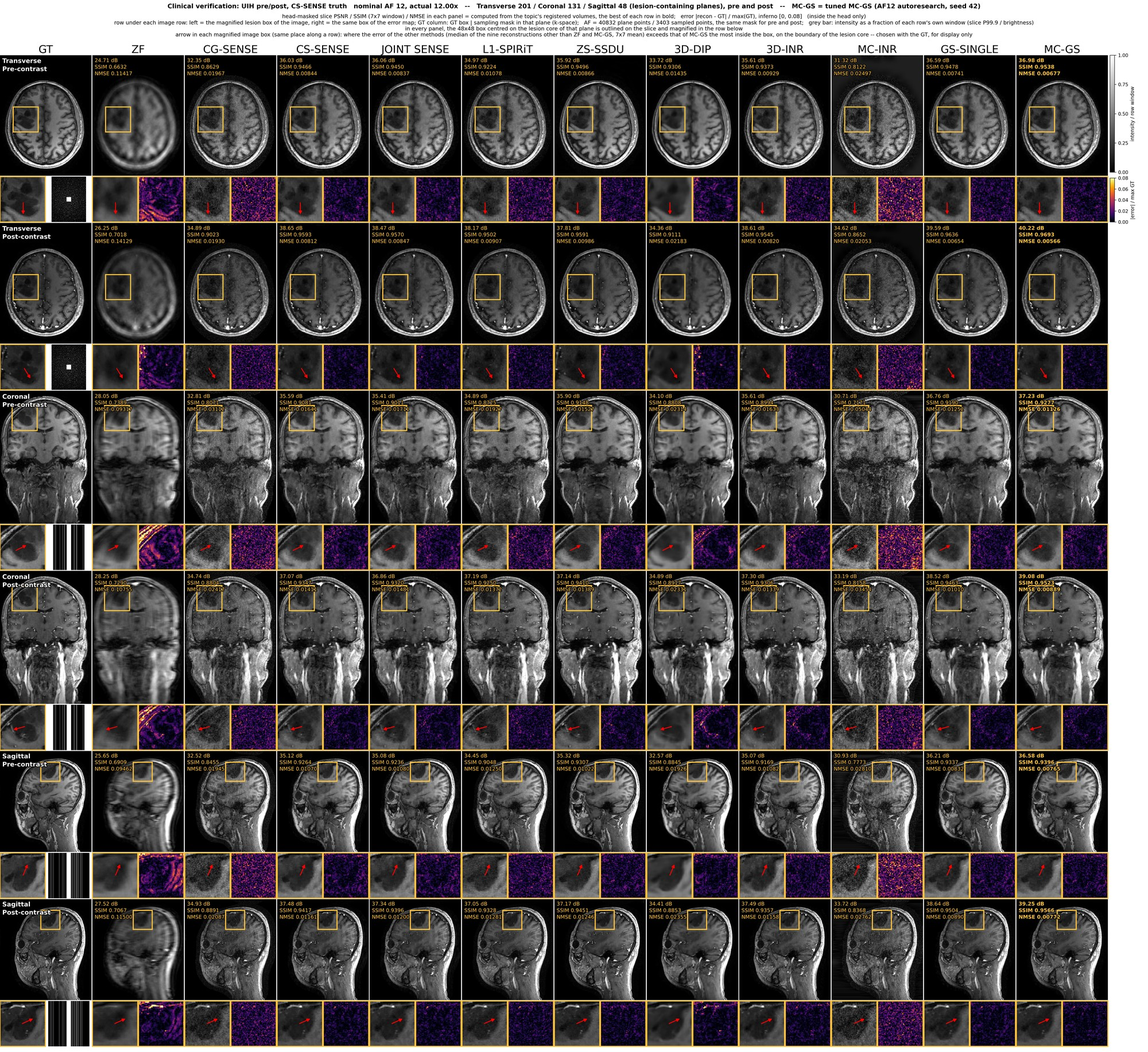
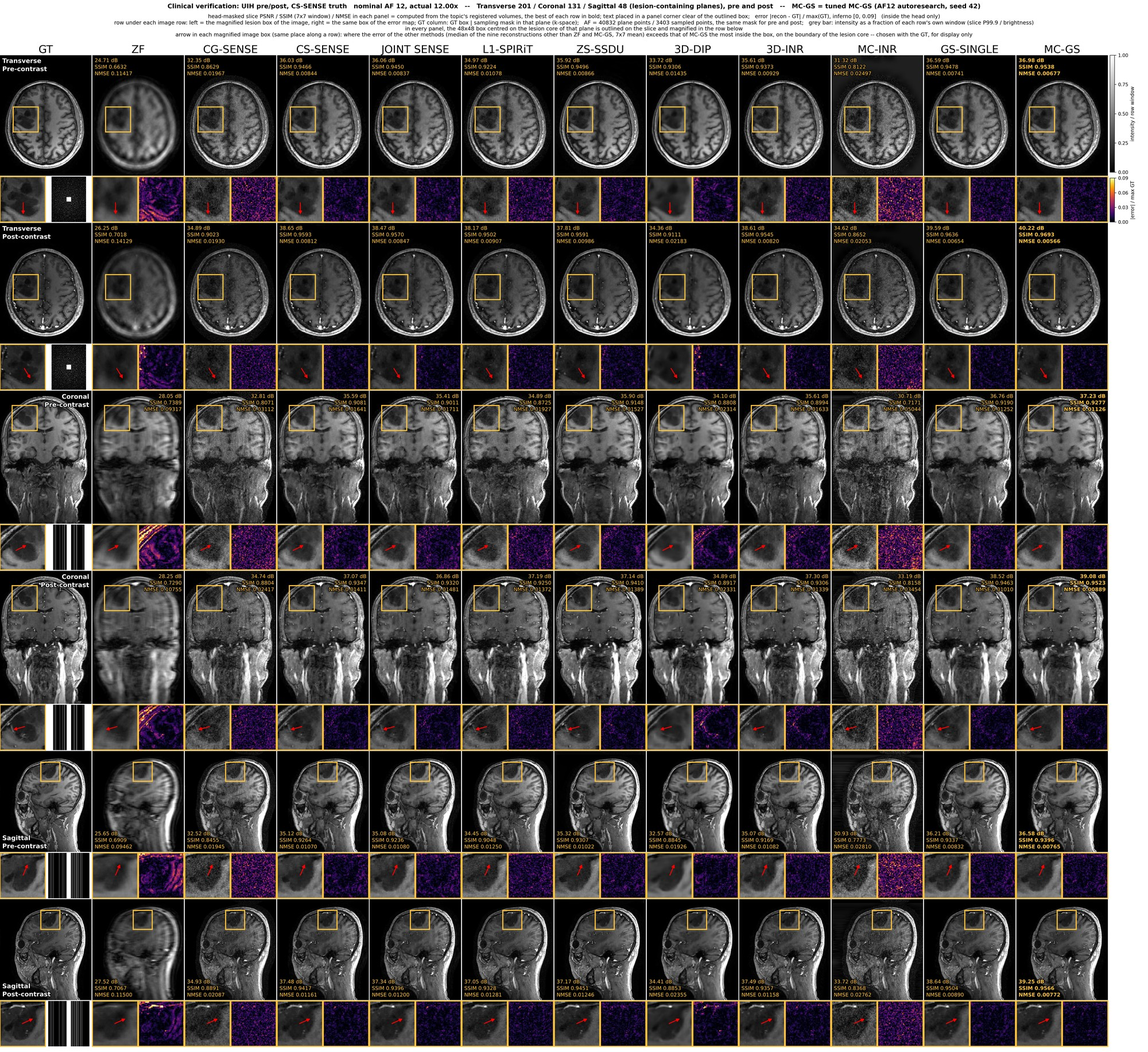
[plain-enhan] ce af12 optimal figure: error range [0, 0.09], panel text clear of the zoom box (user)
User 2026-11-24: "Adjust the colorbar range to [0, 0.09]. Then, ensure that the text on the figure does not overlap
the zoom-in box."
- fig_lesion_plane_prepost.py: --text_corner auto puts each row's GT label and PSNR / SSIM / NMSE block in the first
  corner (tl, tr, bl, br) whose rendered text clears the outlined box by 3 pt (default tl = as before); error colour-bar
  ticks: four equal steps when the step is a multiple of 0.005 (0.1 and 0.08 unchanged), else 3 / 5 / 6 steps
  (0.09 -> 0 / 0.03 / 0.06 / 0.09)
- optimal figure redrawn (CPU j-20261125T015708-a0616399): transverse rows top-left, coronal top-right, sagittal
  bottom-left; numbers, margins, arrow points and source volumes identical to the [0, 0.08] drawing
- README current-optimal block, record JSON and preview updated; server v2_err009_textclear, sha256 checked

From the Claude session "plain-enhan" only.

diff --git a/autoresearch/ce_af16_lesion_figs_20261107/fig_lesion_plane_prepost.py b/autoresearch/ce_af16_lesion_figs_20261107/fig_lesion_plane_prepost.py
@@ -55,6 +55,9 @@ ap.add_argument("--inset", type=int, default=48)
 ap.add_argument("--inset_corner", default="auto", choices=["auto", "bl", "br", "tr"],
                 help="corner of the magnified box (auto = the free corner farthest from the outlined box; tl holds the numbers)")
 ap.add_argument("--err_vmax", type=float, default=0.1)
+ap.add_argument("--text_corner", default="tl", choices=["tl", "auto"],
+                help="corner of the panel text (row labels, PSNR / SSIM / NMSE): tl = top-left as before; auto = per row the "
+                     "first of top-left, top-right, bottom-left, bottom-right whose rendered text clears the outlined box")
 ap.add_argument("--err_cmap", default="jet", help="colour map of the error maps (jet = the record format; inferno = the article look)")
 ap.add_argument("--arrow", action="store_true",
                 help="article look (as fig_t1flair_af_record_format.py --arrow --arrow_on main): one arrow per row on every "
@@ -339,6 +342,16 @@ def plane_rows(axis, idx):
     return out
 
 
+def err_ticks(vmax):
+    """colour-bar ticks of the error map: four equal steps as before when the step is a multiple of 0.005
+    (0.1 -> 0.025, 0.08 -> 0.02), otherwise the first of 3 / 5 / 6 steps that is (0.09 -> 0.03)"""
+    for n in (4, 3, 5, 6):
+        st = vmax / n
+        if abs(st / 0.005 - round(st / 0.005)) < 1e-6:
+            return np.arange(n + 1) * st
+    return np.arange(0, 5) * vmax / 4
+
+
 def set_windows(rows):
     """house grey windows: each row its slice P99.9; a sagittal row gets the in-head median / P99.9 ratio of the
     other planes of the same scan (bright lateral scalp fat would darken it); then / --brightness (display only)"""
@@ -357,7 +370,7 @@ def render(rows, title, stem):
         stem += "_zoomerr"
     stem += (f"_{args.err_cmap}" if args.err_cmap != "jet" else "") + (f"_err{args.err_vmax:g}" if args.err_vmax != 0.1 else "") \
         + (f"_arrow{args.arrow_mode}" if args.arrow else "") + ("_onerr" if args.arrow and args.arrow_on == "main+err" else "") \
-        + ("_onzoom" if args.arrow and args.arrow_on == "zoom" else "")
+        + ("_onzoom" if args.arrow and args.arrow_on == "zoom" else "") + ("_txtauto" if args.text_corner == "auto" else "")
     ncol = len(LABELS) + 1
     pw, gap = 2.6, 0.025
     CBTRIM, top_in, cbpad, cbw, cbroom = 0.10, 1.35, 0.06, 0.13, (0.95 if args.cbar == "single" else 0.60)
@@ -388,11 +401,45 @@ def render(rows, title, stem):
             sp.set_visible(False)
         return a
 
-    def label(a, text, bold=False, line=0, fs=12, hh=None, color="white"):
-        dy = line * fs * 1.28 / 72 / hh if line else 0.0
-        t = a.text(0.025, 0.975 - dy, text, transform=a.transAxes, ha="left", va="top", color=color, fontsize=fs,
+    def label(a, text, bold=False, line=0, fs=12, hh=None, color="white", corner="tl", nlines=1):
+        """one text line in a panel corner; line 0 is the top line of the block in every corner"""
+        k_ = line if corner[0] == "t" else nlines - 1 - line
+        dy = k_ * fs * 1.28 / 72 / hh if k_ else 0.0
+        t = a.text(0.025 if corner[1] == "l" else 0.975, 0.975 - dy if corner[0] == "t" else 0.025 + dy, text,
+                   transform=a.transAxes, ha="left" if corner[1] == "l" else "right",
+                   va="top" if corner[0] == "t" else "bottom", color=color, fontsize=fs,
                    fontweight="bold" if bold else "normal")
         t.set_path_effects([pe.withStroke(linewidth=2.5, foreground="black")])
+        return t
+
+    def text_corner(a, r, h):
+        """--text_corner auto: the first corner (tl, tr, bl, br) where the rendered row label of the GT panel and the
+        widest PSNR / SSIM / NMSE block of the row (drawn bold) clear the outlined box by 3 pt; if none does, the corner
+        with the least overlap. All panels of a row have the size of this one, so the corner holds along the row."""
+        if args.text_corner == "tl":
+            return "tl"
+        rend = fig.canvas.get_renderer()
+        z = r["zoom"]
+        bb = a.transData.transform(np.array([[z["x0"] - 0.5, z["y0"] - 0.5],
+                                             [z["x0"] + z["w"] - 0.5, z["y0"] + z["w"] - 0.5]]))
+        pad = 3 * fig.dpi / 72
+        bx0, by0 = bb.min(0) - pad
+        bx1, by1 = bb.max(0) + pad
+        nums = [(f"{n['psnr']:.2f} dB", f"SSIM {n['ssim']:.4f}", f"NMSE {n['nmse']:.5f}") for n in r["num"].values()]
+        blocks = [((ANAT[r["axis"]], SCAN_NAME[r["scan"]]), 13), (max(nums, key=lambda t: max(map(len, t))), 10.5)]
+        cost = {}
+        for c in ("tl", "tr", "bl", "br"):
+            ov = 0.0
+            for lines, fs in blocks:
+                for i, txt in enumerate(lines):
+                    t = label(a, txt, bold=True, line=i, fs=fs, hh=h, corner=c, nlines=len(lines))
+                    e = t.get_window_extent(renderer=rend)
+                    t.remove()
+                    ov += max(0.0, min(e.x1, bx1) - max(e.x0, bx0)) * max(0.0, min(e.y1, by1) - max(e.y0, by0))
+            if ov == 0.0:
+                return c
+            cost[c] = ov
+        return min(cost, key=cost.get)
 
     def put_inset(parent, img, r, x0_in, y0_in, hh, **imkw):
         z, corner = r["zoom"], r["corner"]
@@ -446,8 +493,9 @@ def render(rows, title, stem):
                 gim = a.imshow(D(r["g2"], axis), cmap="gray", vmin=0, vmax=r["vmax"], origin="lower", aspect="auto")
                 put_inset(a, D(r["g2"], axis), r, x, y, h, cmap="gray", vmin=0, vmax=r["vmax"])
                 arrow_at(a, r, D(r["g2"], axis).shape)
-                label(a, ANAT[axis], bold=True, fs=13)          # plane name only, as the house figures; indices in the title
-                label(a, SCAN_NAME[s], bold=True, line=1, fs=13, hh=h)
+                tc = r["text_corner"] = text_corner(a, r, h)
+                label(a, ANAT[axis], bold=True, fs=13, hh=h, corner=tc, nlines=2)   # plane name only; indices in the title
+                label(a, SCAN_NAME[s], bold=True, line=1, fs=13, hh=h, corner=tc, nlines=2)
                 kplane = D(mask3.take(kcen[axis], axis=axis), axis)
                 if ZOOMROW:
                     bL.imshow(crop(D(r["g2"], axis), z), cmap="gray", vmin=0, vmax=r["vmax"], origin="lower", aspect="auto")
@@ -468,7 +516,7 @@ def render(rows, title, stem):
             n = r["num"][lab]
             for i, (txt, met) in enumerate(((f"{n['psnr']:.2f} dB", "psnr"), (f"SSIM {n['ssim']:.4f}", "ssim"),
                                              (f"NMSE {n['nmse']:.5f}", "nmse"))):
-                label(a, txt, bold=lab == r["best"][met], line=i, fs=10.5, hh=h, color=METRIC_COLOR)
+                label(a, txt, bold=lab == r["best"][met], line=i, fs=10.5, hh=h, color=METRIC_COLOR, corner=tc, nlines=3)
             emap = D(np.abs(v - r["g2"]) / gmax[s] * r["emask"], axis)
             if ZOOMROW:
                 bL.imshow(crop(D(v, axis), z), cmap="gray", vmin=0, vmax=r["vmax"], origin="lower", aspect="auto")
@@ -487,14 +535,14 @@ def render(rows, title, stem):
             if k == 0:     # one grey bar in units of each row's own window, one error bar (same scale in every row)
                 gsm = ScalarMappable(norm=Normalize(0, 1), cmap="gray")
                 for handle, t0, t1, tk, lab_ in ((gsm, y, y + h - CBTRIM, np.linspace(0, 1, 5), "intensity / row window"),
-                                                 (im, e0, y + h + gap + eh, np.arange(0, 5) * args.err_vmax / 4, "|error| / max GT")):
+                                                 (im, e0, y + h + gap + eh, err_ticks(args.err_vmax), "|error| / max GT")):
                     cax = fig.add_axes([x_cb, 1 - t1 / fh, cbw / fw, (t1 - t0) / fh])
                     cb = fig.colorbar(handle, cax=cax, ticks=tk)
                     cb.ax.tick_params(labelsize=9.5)
                     cb.set_label(lab_, fontsize=10)
         else:
             for handle, t0, t1, tk in ((gim, y, y + h - CBTRIM, MaxNLocator(5)),
-                                       (im, e0, y + h + gap + eh, np.arange(0, 5) * args.err_vmax / 4)):
+                                       (im, e0, y + h + gap + eh, err_ticks(args.err_vmax))):
                 cax = fig.add_axes([x_cb, 1 - t1 / fh, cbw / fw, (t1 - t0) / fh])
                 fig.colorbar(handle, cax=cax, ticks=tk).ax.tick_params(labelsize=9.5)
         y += h + eh + 2 * gap
@@ -508,7 +556,8 @@ def render(rows, title, stem):
             corners.append(t)
     src = "the frozen evaluator's lesion-plane numbers" if sd is not None else "computed from the topic's registered volumes"
     cap = [f"head-masked slice PSNR / SSIM (7x7 window) / NMSE in each panel = {src}, "
-           "the best of each row in bold",
+           "the best of each row in bold" + ("; text placed in a panel corner clear of the outlined box"
+                                             if args.text_corner == "auto" else ""),
            f"error |recon - GT| / max(GT), {args.err_cmap} [0, {args.err_vmax:g}]   (inside the head only)",
            ("row under each image row: left = the magnified lesion box of the image, right = the same box of the error map; "
             "GT column: GT box | sampling mask in that plane (k-space)") if ZOOMROW
@@ -576,6 +625,8 @@ def render(rows, title, stem):
                                                 gap=r["arrow_gap"], error_higher_than_mcgs_in=r["arrow_worse"]) for r in rows] if args.arrow else None),
                                   arrow_mode=args.arrow_mode if args.arrow else None, arrow_on=args.arrow_on if args.arrow else None,
                                   role=args.role or None,
+                                  text_corner=({f"{r['scan']} {ANAT[r['axis']]} {r['idx']}": r["text_corner"] for r in rows}
+                                               if args.text_corner == "auto" else "tl"),
                                   pdf_image_dpi=args.pdf_dpi if args.pdf else None, png_dpi=args.png_dpi))
     log(f"  wrote {args.out / stem}.png")
 

diff --git a/autoresearch/ce_af12_rerun_20261112/README.md b/autoresearch/ce_af12_rerun_20261112/README.md
@@ -156,6 +156,16 @@ phase-TV guide alpha 0.5, rotation_lr 0.008, scale_lr 0.004; seed 42). Its volum
 config again with `--save_volumes`; trainer scorer 36.031 / 38.473 dB vs 35.805 / 38.145 dB for the registered September
 run). The ten other arms, the truth, mask, planes, boxes, error range and arrow rule are the same as in the 2026-11-22 figure.
 
+**Display change (user, 2026-11-24): "Adjust the colorbar range to [0, 0.09]. Then, ensure that the text on the figure does not
+overlap the zoom-in box."** Redrawn with `--err_vmax 0.09` (colour-bar ticks 0 / 0.03 / 0.06 / 0.09) and `--text_corner auto`.
+For each row, the row label in the GT column and the PSNR / SSIM / NMSE block in each panel go into the first corner
+(top-left, top-right, bottom-left, bottom-right) whose rendered text clears the outlined box by 3 pt. The result is
+top-left for the transverse rows (unchanged), top-right for the coronal rows (the box is top-left) and bottom-left for
+the sagittal rows (the GT label touched the box). The panel numbers, margins, arrow points and source volumes are
+identical to the [0, 0.08] drawing (checked against its record). That drawing is in
+`codex_artifacts/mcgs_ce_af12_prepost_tuned_20261123/v1_tuned/` and locally in
+`figures/results_optimal/superseded_20261124_err008/`.
+
 | plane | MC-GS pre / post PSNR (dB) | GS-single pre / post PSNR (dB) | margin pre / post (dB) | SSIM margin pre / post |
 |---|---|---|---|---|
 | transverse 201 | 36.98 / 40.22 | 36.59 / 39.59 | +0.393 / +0.632 | +0.0042 / +0.0056 |
@@ -176,15 +186,15 @@ by 1 px. The coronal post and sagittal post points did not move.
 | sagittal 48 pre | (29, 36) | 0.0028 | 9 |
 | sagittal 48 post | (35, 29) | 0.0028 | 8 (3D-DIP is not higher) |
 
-**Files.** Server folder `codex_artifacts/mcgs_ce_af12_prepost_tuned_20261123/v1_tuned/` (long names
-`ce_af12_lesion_three_planes_201_131_48_prepost_tuned_MC_GS_AF12_autoresearch_seed_42_zoomerr_inferno_err0.08_arrowlesion_onzoom*`):
+**Files.** Server folder `codex_artifacts/mcgs_ce_af12_prepost_tuned_20261123/v2_err009_textclear/` (long names
+`ce_af12_lesion_three_planes_201_131_48_prepost_tuned_MC_GS_AF12_autoresearch_seed_42_zoomerr_inferno_err0.09_arrowlesion_onzoom_txtauto*`):
 
 | file | content | sha256 |
 |---|---|---|
-| `*.pdf` | the figure, one page, 7.7 MB, image panels at 600 dpi, text and marks as vectors | `3b08b2bc...89b78b2b` |
-| `*.png` | the same figure, 200 dpi | `a854068d...632439cd` |
-| `*_data.npz` | the drawn data (as for the 2026-11-22 figure), 10.9 MB | `7014cec6...51d4f892` |
-| `record_tuned_MC_GS_AF12_autoresearch_seed_42_three.json` | record: hashes of the drawn volumes and the truth, MC-GS source (`--mc_npz`), margins, arrow points | `b134e5cf...9fc1e6c6` |
+| `*.pdf` | the figure, one page, 7.7 MB, image panels at 600 dpi, text and marks as vectors | `ab8bc791...6f728a93` |
+| `*.png` | the same figure, 200 dpi | `0c3bf1da...9b0a7825` |
+| `*_data.npz` | the drawn data (as for the 2026-11-22 figure), 10.9 MB | `ef45d7d0...514fc271` |
+| `record_tuned_MC_GS_AF12_autoresearch_seed_42_three.json` | record: hashes of the drawn volumes and the truth, MC-GS source (`--mc_npz`), margins, arrow points, text corner of each row | `340da179...0a918394` |
 
 - MC-GS volumes: `codex_artifacts/mcgs_framework_ablation_20261110/trainer/results_arc/ta12_x1combo3_vol_volumes.npz`
   (keys recT1 = pre, recFL = post; magnitude drawn). The other arms are as in the 2026-11-22 record.
@@ -192,11 +202,14 @@ by 1 px. The coronal post and sagittal post points did not move.
   figure, with the same hashes as on the server. The 2026-11-22 files are in `figures/results_optimal/superseded_20261122_untuned/`, which is
   git-ignored. The committed `figures/ce_af12_prepost_optimal_preview.jpg` and `figures/ce_af12_prepost_optimal_record.json` are
   the tuned versions; the 2026-11-22 versions are in the history of this branch (a32c056).
-- Jobs: volumes run j-20261124T011133-8fbcb2a0 (GPU 1), figure j-20261124T022553-2d7d45d8 (CPU). Side-by-side view of the
+- Jobs: volumes run j-20261124T011133-8fbcb2a0 (GPU 1), figure j-20261124T022553-2d7d45d8 (CPU, [0, 0.08]),
+  redraw j-20261125T015708-a0616399 (CPU, [0, 0.09], text corner auto). Side-by-side view of the
   MC-GS column old vs new: `../ce_af12_tune_20261122/compare_old_new.py`.
-- Command: as below for the 2026-11-22 figure, plus `--mc_npz <volumes above>` and
-  `--label "tuned MC-GS (AF12 autoresearch, seed 42)"`. `--mc_npz` was added to `fig_lesion_plane_prepost.py` on 2026-11-23;
-  without it the topic's registered MC-GS volumes are drawn as before.
+- Command: as below for the 2026-11-22 figure, plus `--mc_npz <volumes above>`,
+  `--label "tuned MC-GS (AF12 autoresearch, seed 42)"`, `--err_vmax 0.09` and `--text_corner auto`. `--mc_npz` was added to `fig_lesion_plane_prepost.py` on 2026-11-23;
+  without it the topic's registered MC-GS volumes are drawn as before. `--text_corner` (default tl, as before) and the
+  colour-bar tick rule (four equal steps when the step is a multiple of 0.005, so [0, 0.1] and [0, 0.08] are unchanged)
+  were added on 2026-11-24.
 
 **To state with it.** The MC-GS hyperparameters were selected by the head PSNR of this same scan against its truth.
 The comparators keep their earlier settings; of these, the lambda of the three swept arms was also chosen on the truth.
